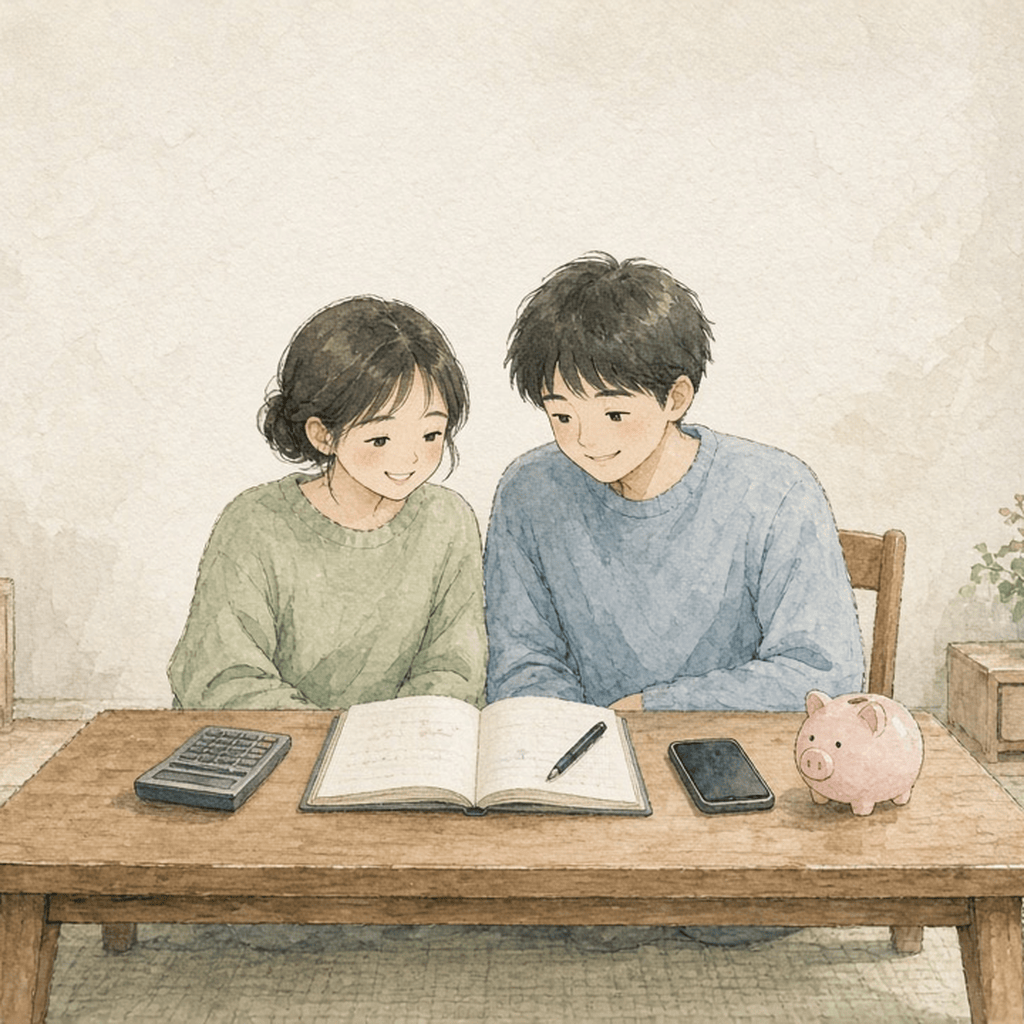
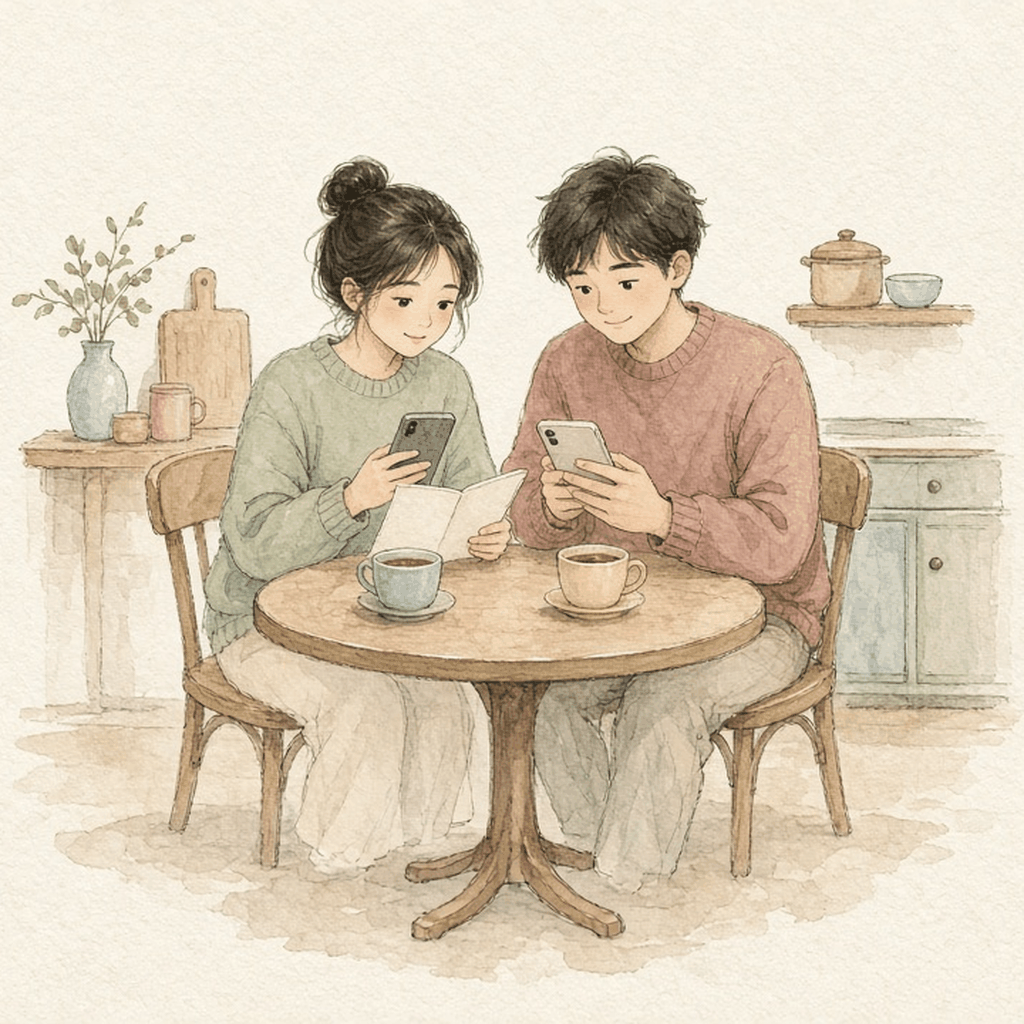
絵の描き直し17枚：式に見える絵・切れた人・クリーム枠をなくし、同じ章の重複と合意カードの同じ絵を別々の絵に

diff --git a/src/components/PairWorkbook.tsx b/src/components/PairWorkbook.tsx
@@ -38,6 +38,27 @@ const THEME_ART = [
 
 const TALK_ART = 'phases/gen-stamp-grid.png';
 const AGREE_ART = 'phases/lux-filing.png';
+/** 合意カードは話題ごとに別の絵（2026-10-03）。ここに無い id は最後に AGREE_ART のカードへまとめる。 */
+const AGREE_GROUPS: {label: string; art: string; ids: string[]}[] = [
+  {label: '暮らし・会話・楽しみ', art: 'phases/agree-life.png', ids: ['G01', 'G02', 'G03', 'G04']},
+  {label: '家事・予定・忙しい日', art: 'phases/agree-chores.png', ids: ['G05', 'G06', 'G07', 'G08']},
+  {label: 'お金・働き方', art: 'phases/agree-money.png', ids: ['G09', 'G10']},
+  {label: 'けんか・仲直り', art: 'phases/agree-repair.png', ids: ['G11', 'G12']},
+  {label: '親族・共有する情報', art: 'phases/agree-family.png', ids: ['G13', 'G14']},
+  {label: '親密さ・子育て・頼る先', art: 'phases/agree-care.png', ids: ['G15', 'G16', 'G17', 'G18']},
+];
+
+function agreeCards(items: Agreement[]): {label: string; art: string; items: Agreement[]}[] {
+  const used = new Set<string>();
+  const cards = AGREE_GROUPS.map((g) => {
+    const its = items.filter((a) => g.ids.includes(a.id));
+    its.forEach((a) => used.add(a.id));
+    return {label: g.label, art: g.art, items: its};
+  }).filter((c) => c.items.length);
+  const rest = items.filter((a) => !used.has(a.id));
+  chunkPads(rest).forEach((chunk, i, all) => cards.push({label: all.length > 1 ? `二人の合意 ${i + 1}/${all.length}` : '二人の合意', art: AGREE_ART, items: chunk}));
+  return cards;
+}
 
 const FILL_ORDER = [3, 2, 0, 1, 4, 5, 6, 7, 8, 9, 10, 11];
 const MAX_PADS = 12;
@@ -688,18 +709,17 @@ function AgreeStampBoard({
   onSaveAgreement: (id: string, record: AgreementRecord) => boolean | Promise<boolean>;
   setDraft: Dispatch<SetStateAction<Record<string, AgreementRecord>>>;
 }) {
-  const chunks = chunkPads(items);
+  const cards = agreeCards(items);
   return (
     <div className="pair-stamp stamp-rally" role="list">
-      {chunks.map((chunk, partIdx) => {
-        const partTotal = chunks.length;
-        const caption = partTotal > 1 ? `合意 ${partIdx + 1}/${partTotal}` : '二人の合意';
+      {cards.map(({label, art, items: chunk}, partIdx) => {
+        const caption = label;
         const doneCount = chunk.filter((a) => (book.agreements[a.id]?.agreed || '').trim()).length;
         const allDone = chunk.length > 0 && doneCount === chunk.length;
         return (
           <article key={`agree-${partIdx}`} role="listitem" className={`illust-square pair-stamp-card${chunk.some((a) => a.id === openId) ? ' selected' : ''}${allDone ? ' complete' : ''}`}>
             <div className="illust-frame">
-              <img className="illust-art" src={AGREE_ART} alt="" loading="lazy" decoding="async" />
+              <img className="illust-art" src={art} alt="" loading="lazy" decoding="async" />
               <div className={`illust-pads${chunk.length > 6 ? ' pads-dense' : ''}`} role="group" aria-label={`${caption}のスタンプ台`}>
                 {chunk.map((a, idx) => {
                   const done = !!(book.agreements[a.id]?.agreed || '').trim();

diff --git a/docs/DECISIONS.md b/docs/DECISIONS.md
@@ -144,3 +144,4 @@
 - 2026-10-03 xAI キーをアプリから取り除いた（難読化して同梱していた `src/lib/amity-grok-bundle.ts` を削除）。「Amityちゃんにきく」・設定の「今の制度を調べる」・ふたりタブのAI助言は、設定 → 詳細設定 →「AIのキー」で入れたキー（その端末の localStorage だけ・同期やバックアップに入らない）でだけ AI を使う。キーが無いときは手帳の中の答えを出し、設定の場所を日本語で案内する。FAQ・収録データは変えていない。古いキーは git の履歴に残るので失効させること。理由：Kenji の依頼（公開ページから誰でもキーを取り出せたため）。
 - 2026-10-03 ホーム画面の名前を「結婚ロードマップ」に（manifest の name / short_name・apple-mobile-web-app-title・application-name・ページの title／og / twitter の題も）。右下のチャットの名前「Amityちゃんにきく」はそのまま。公開ページは合言葉で暗号化しているので、manifest と本体の index.html は合言葉を入れたあと service worker が返す。合言葉の前（解錠ページ）にはアプリの名前を置けない（平文検査で落ちる）ため、解錠ページに「ホーム画面に追加するときは、開いたあとで追加してください。」、設定の「使い続けるためのメモ」にも同じ案内を足した。前に追加したホーム画面のアイコンは、追加し直すと新しい名前になる。理由：Kenji の依頼。
 - 2026-10-03 ふたりタブのレッスン動画25本（lesson1〜25.mp4・ポスター25枚）を描き直さずに作り直し。前の版は、16:9 の絵の後ろに同じ絵をぼかしてクリーム色を重ねた背景を敷いていた。新しい版はぼかし・クリームの地なし：絵は横幅いっぱい（1080px・16:9 を切らずに全体）、見出し・字幕・出典は紺（#183645・アプリのテーマ色）の地に白と金の文字。ナレーション・字幕・出典・場面・長さ・ファイル名は前と同じ（`futari-lessons.json` は変えていない）。作り方は箱の `/workspace/gottman-preview/video/tools/build_clean.py N`（各 lessonN の segs.py・img・audio.wav を使う。リポジトリには入れていない）。理由：Kenji の依頼。
+- 2026-10-03 絵の描き直し17枚（Kenji が候補を承認）。差し替え（同じファイル名）：自営の届出・言葉の場面の `gen-stamp-grid`（クリーム色の枠をなくした）、挙式・祝金・年末調整の `rm-company` と二人で決める・育休転勤の `gen-stamp-board`（式・和装に見える絵をやめ、ふだん着の二人の机の場面に）、称する氏・名義変更の `rm-namechange` と手当と名義・光熱の `lux-cohabit`（人が端で切れない構図に）、家族割の `gen-money-family`、財産の約束の `phase8-divorce-hedge`、証明書の `lux-filing`。同じ章で同じ絵が2回出ないように、iDeCo・贈与は `gen-money-iDeCo`、民間の特典は `gen-money-perks`、遺言と後見は `phase8-hedge-legal` に。ふたりタブの「二人の合意」は、18問を同じ絵の2枚に分けていたのをやめ、話題ごとの6枚（暮らし・会話・楽しみ／家事・予定・忙しい日／お金・働き方／けんか・仲直り／親族・共有する情報／親密さ・子育て・頼る先）にして、それぞれ別の絵（`agree-*.png`）にした。どれも正方形1024×1024・256色・字なし・式の場面なし・頭の上に余白あり。収録データ（合意18問・項目）は変えていない。理由：Kenji の依頼。
